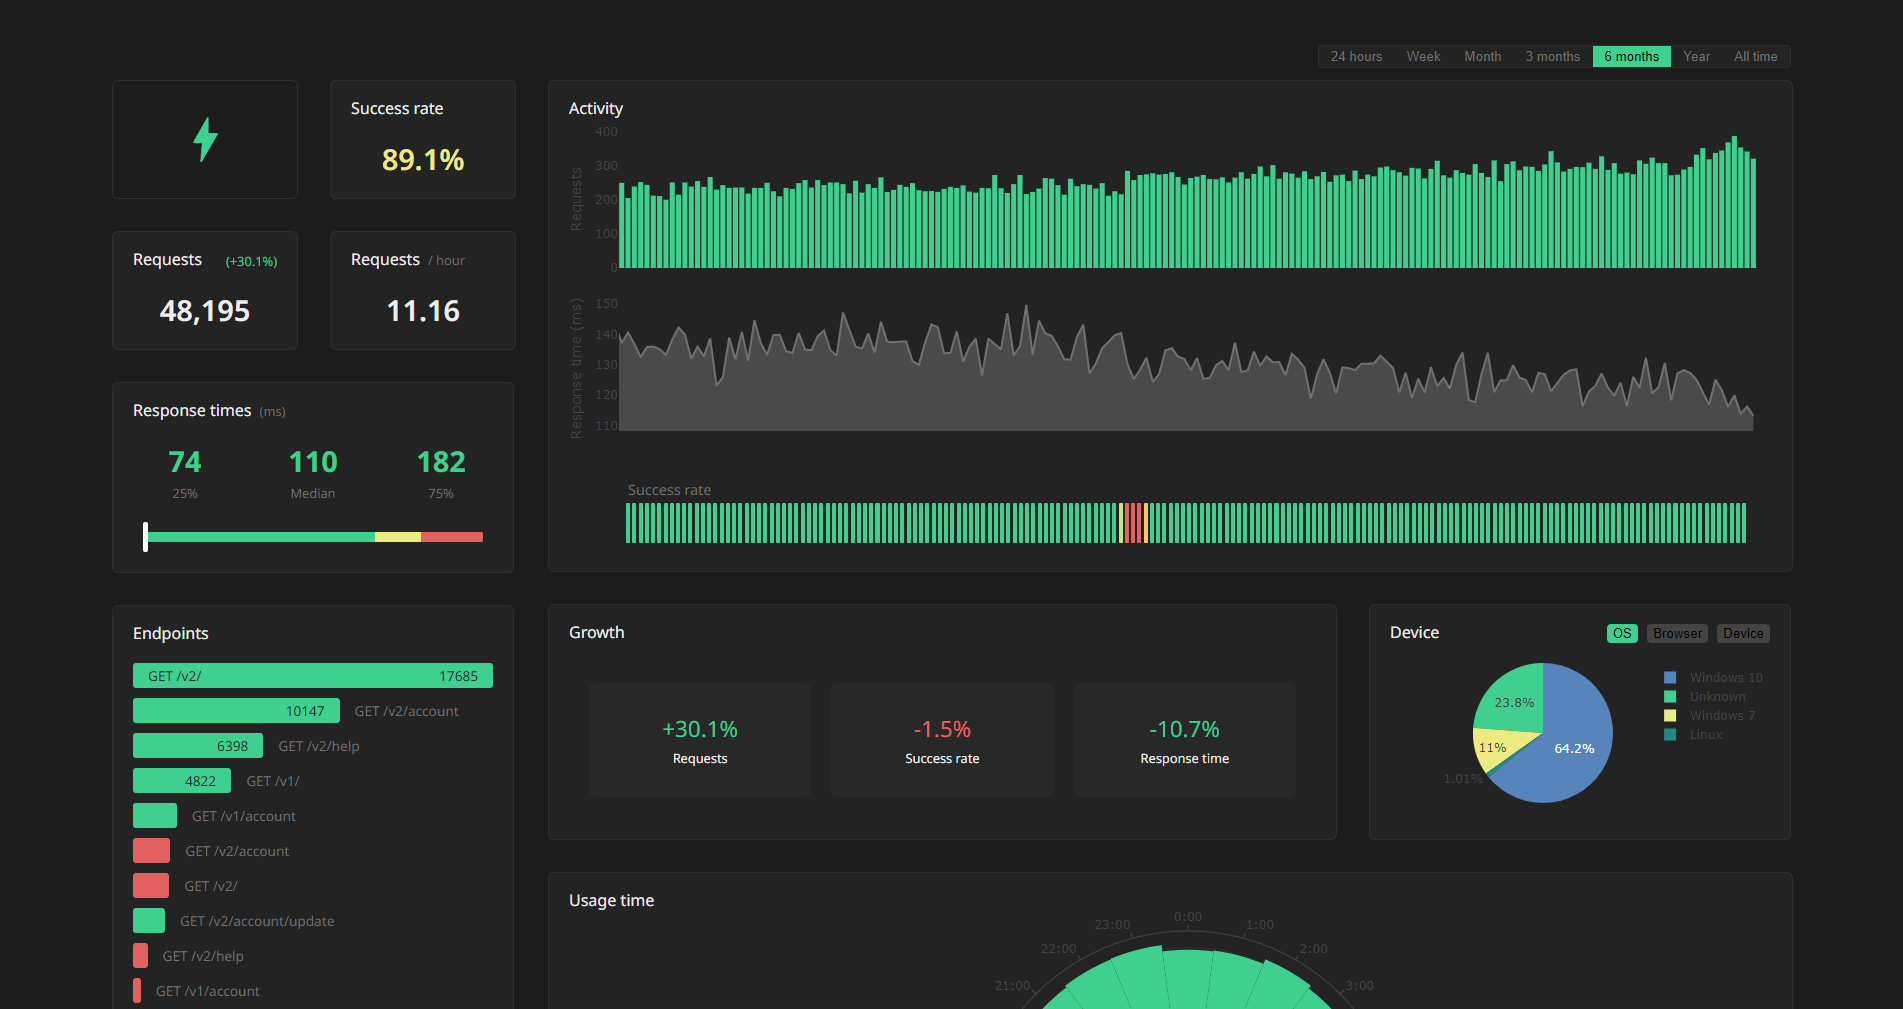
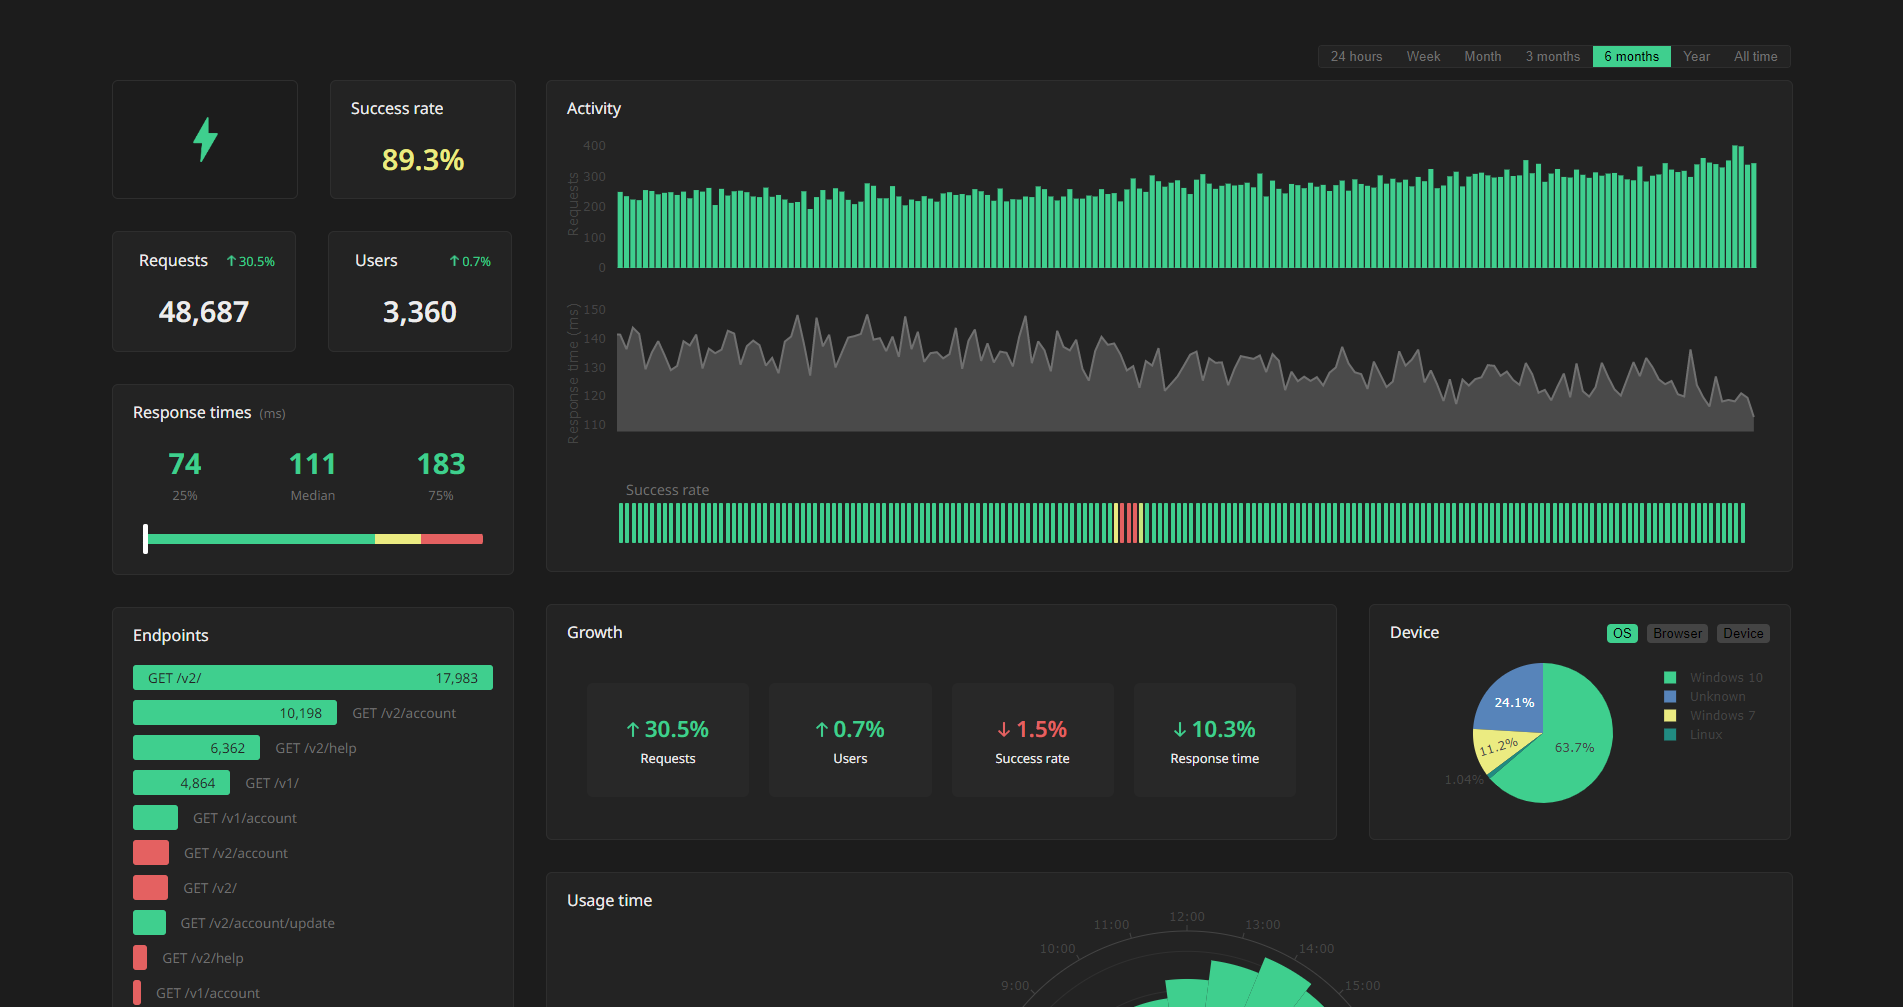
Update home dashboard image

diff --git a/dashboard/src/components/dashboard/UsageTime.svelte b/dashboard/src/components/dashboard/UsageTime.svelte
@@ -42,6 +42,10 @@
       requests.push(requestFreqArr[i][1]);
     }
 
+    // Shift to 12 onwards to make barpolar like clock face
+    dates = dates.slice(12).concat(...dates.slice(0, 12))
+    requests = requests.slice(12).concat(...requests.slice(0, 12))
+
     return [
       {
         r: requests,

diff --git a/dashboard/src/lib/framework.ts b/dashboard/src/lib/framework.ts
@@ -81,7 +81,7 @@ import { expressAnalytics } from 'node-api-analytics';
 
 const app = express();
 
-app.use(analytics(<api_key>));  // Add middleware
+app.use(expressAnalytics(<api_key>));  // Add middleware
 
 app.get('/', (req, res) => {
     res.send({ message: 'Hello World' });
